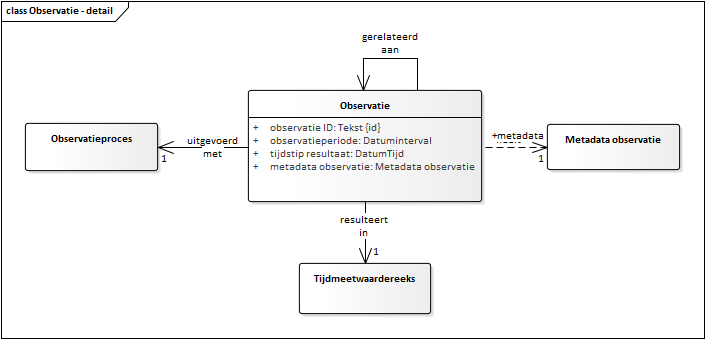
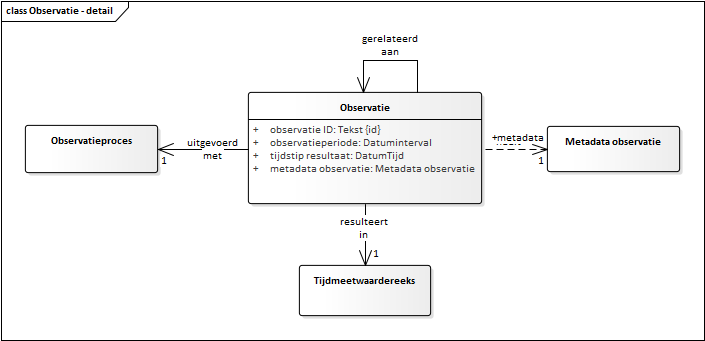
Conceptualmodel-GrondwaterstandonderzoekGLD-0.91-3-20191111-20200218-145818

diff --git a/data/GLD-cat.msword.html b/data/GLD-cat.msword.html
@@ -12,8 +12,8 @@
                 </style></head>
    <body>
       <p>Conceptual model/Grondwaterstandonderzoek (GLD)/20191111</p>
-      <p>Imvertor: 1.59.0</p>
-      <p>Model release: Conceptualmodel-GrondwaterstandonderzoekGLD-0.91-3-20191111-20200212-155821</p>
+      <p>Imvertor: 1.59.1</p>
+      <p>Model release: Conceptualmodel-GrondwaterstandonderzoekGLD-0.91-3-20191111-20200218-145818</p>
       <hr>
       <section>
          <h1>Artikel 1 Definitie van registratieobject, entiteiten en attributen</h1>
@@ -85,7 +85,7 @@
                         <area shape="rect" alt="Observatie" coords="416,208,562,264" href="#graph_EAID_665112EA_A39D_4ff0_BC95_CDDD3C5314EE">
                         <area shape="rect" alt="GMW-monitoringbuis" coords="714,106,860,152" href="#graph_EAID_3337CDCE_0A5D_4aee_AEB0_14AF7652B102">
                         <area shape="rect" alt="Grondwatermonitoringnet" coords="714,35,860,83" href="#graph_EAID_68FD3B87_BA7B_485e_A5DC_4804CB98C818">
-                        <area shape="rect" alt="Grondwaterstandonderzoek" coords="359,35,629,141" href="#graph_EAID_5876720F_795D_40b5_82B8_BC782B71FA3A"></map><p><b>Grondwaterstandonderzoek</b></p>
+                        <area shape="rect" alt="Grondwaterstandonderzoek" coords="359,35,629,141" href="#graph_EAID_5876720F_795D_40b5_82B8_BC782B71FA3A"></map><p><b></b></p>
                   </div>
                   <table style="width: 100%;">
                      <colgroup style="width: 30%;"></colgroup>
@@ -512,7 +512,7 @@
                </section><a class="anchor" id="graph_EAID_0D009A59_1E9A_4fc2_867A_9006A9464AA7"></a><a class="anchor" id="global_class_Model_Registratiegeschiedenis"></a><section id="global_class_Model_Registratiegeschiedenis">
                   <h3>   Registratiegeschiedenis</h3>
                   <div class="imageinfo "><img src="Images/EAID_52221F8C_7EB3_448f_9420_3B6CEB964A75.png" usemap="#imagemap-EAID_52221F8C_7EB3_448f_9420_3B6CEB964A75" alt="Diagram "><map name="imagemap-EAID_52221F8C_7EB3_448f_9420_3B6CEB964A75">
-                        <area shape="rect" alt="Registratiegeschiedenis" coords="25,35,304,234" href="#graph_EAID_0D009A59_1E9A_4fc2_867A_9006A9464AA7"></map><p><b>Registratiegeschiedenis</b></p>
+                        <area shape="rect" alt="Registratiegeschiedenis" coords="25,35,304,234" href="#graph_EAID_0D009A59_1E9A_4fc2_867A_9006A9464AA7"></map><p><b></b></p>
                   </div>
                   <table style="width: 100%;">
                      <colgroup style="width: 30%;"></colgroup>
@@ -1155,7 +1155,7 @@
                </section><a class="anchor" id="graph_EAID_68FD3B87_BA7B_485e_A5DC_4804CB98C818"></a><a class="anchor" id="global_class_Model_Grondwatermonitoringnet"></a><section id="global_class_Model_Grondwatermonitoringnet">
                   <h3>   Grondwatermonitoringnet</h3>
                   <div class="imageinfo "><img src="Images/EAID_C875F96A_7593_4a6a_873E_076B91008FD8.png" usemap="#imagemap-EAID_C875F96A_7593_4a6a_873E_076B91008FD8" alt="Diagram "><map name="imagemap-EAID_C875F96A_7593_4a6a_873E_076B91008FD8">
-                        <area shape="rect" alt="Grondwatermonitoringnet" coords="25,35,203,108" href="#graph_EAID_68FD3B87_BA7B_485e_A5DC_4804CB98C818"></map><p><b>Grondwatermonitoringnet</b></p>
+                        <area shape="rect" alt="Grondwatermonitoringnet" coords="25,35,203,108" href="#graph_EAID_68FD3B87_BA7B_485e_A5DC_4804CB98C818"></map><p><b></b></p>
                   </div>
                   <table style="width: 100%;">
                      <colgroup style="width: 30%;"></colgroup>
@@ -1242,7 +1242,7 @@
                </section><a class="anchor" id="graph_EAID_3337CDCE_0A5D_4aee_AEB0_14AF7652B102"></a><a class="anchor" id="global_class_Model_GMWMonitoringbuis"></a><section id="global_class_Model_GMWMonitoringbuis">
                   <h3>   GMW-monitoringbuis</h3>
                   <div class="imageinfo "><img src="Images/EAID_ADD1D46C_60DB_4f47_81DE_F330147CC549.png" usemap="#imagemap-EAID_ADD1D46C_60DB_4f47_81DE_F330147CC549" alt="Diagram "><map name="imagemap-EAID_ADD1D46C_60DB_4f47_81DE_F330147CC549">
-                        <area shape="rect" alt="GMW-monitoringbuis" coords="25,35,202,118" href="#graph_EAID_3337CDCE_0A5D_4aee_AEB0_14AF7652B102"></map><p><b>GMW-monitoringbuis</b></p>
+                        <area shape="rect" alt="GMW-monitoringbuis" coords="25,35,202,118" href="#graph_EAID_3337CDCE_0A5D_4aee_AEB0_14AF7652B102"></map><p><b></b></p>
                   </div>
                   <table style="width: 100%;">
                      <colgroup style="width: 30%;"></colgroup>
@@ -1370,10 +1370,10 @@
                </section><a class="anchor" id="graph_EAID_665112EA_A39D_4ff0_BC95_CDDD3C5314EE"></a><a class="anchor" id="global_class_Model_Observatie"></a><section id="global_class_Model_Observatie">
                   <h3>   Observatie</h3>
                   <div class="imageinfo "><img src="Images/EAID_FFE0225E_BCD2_4577_80E8_F7BE7B9C534D.png" usemap="#imagemap-EAID_FFE0225E_BCD2_4577_80E8_F7BE7B9C534D" alt="Diagram "><map name="imagemap-EAID_FFE0225E_BCD2_4577_80E8_F7BE7B9C534D">
-                        <area shape="rect" alt="Observatieproces" coords="25,123,158,171" href="#graph_EAID_60FD1126_3C17_4798_955B_1E516F7A0B33">
-                        <area shape="rect" alt="Tijdmeetwaardereeks" coords="299,263,431,314" href="#graph_EAID_590167CC_D7A2_4abb_8672_8592B1DF1842">
-                        <area shape="rect" alt="Metadata observatie" coords="547,124,680,170" href="#graph_EAID_2931B2EB_8861_47e1_B587_ADACE12C97F7">
-                        <area shape="rect" alt="Observatie" coords="248,90,482,202" href="#graph_EAID_665112EA_A39D_4ff0_BC95_CDDD3C5314EE"></map><p><b>Observatie</b></p>
+                        <area shape="rect" alt="Observatieproces" coords="25,125,158,173" href="#graph_EAID_60FD1126_3C17_4798_955B_1E516F7A0B33">
+                        <area shape="rect" alt="Tijdmeetwaardereeks" coords="299,265,431,316" href="#graph_EAID_590167CC_D7A2_4abb_8672_8592B1DF1842">
+                        <area shape="rect" alt="Metadata observatie" coords="547,126,680,172" href="#graph_EAID_2931B2EB_8861_47e1_B587_ADACE12C97F7">
+                        <area shape="rect" alt="Observatie" coords="248,92,482,204" href="#graph_EAID_665112EA_A39D_4ff0_BC95_CDDD3C5314EE"></map><p><b></b></p>
                   </div>
                   <table style="width: 100%;">
                      <colgroup style="width: 30%;"></colgroup>
@@ -1609,7 +1609,7 @@
                   <h3>   Metadata observatie</h3>
                   <div class="imageinfo "><img src="Images/EAID_AABBF7FC_969A_409b_AC51_3C2592E5F205.png" usemap="#imagemap-EAID_AABBF7FC_969A_409b_AC51_3C2592E5F205" alt="Diagram "><map name="imagemap-EAID_AABBF7FC_969A_409b_AC51_3C2592E5F205">
                         <area shape="rect" alt="Organisatiegegevens" coords="366,57,514,129" href="#graph_EAID_806BC67E_5274_4569_8563_F09961E376AE">
-                        <area shape="rect" alt="Metadata observatie" coords="25,35,255,133" href="#graph_EAID_2931B2EB_8861_47e1_B587_ADACE12C97F7"></map><p><b>Metadata observatie</b></p>
+                        <area shape="rect" alt="Metadata observatie" coords="25,35,255,133" href="#graph_EAID_2931B2EB_8861_47e1_B587_ADACE12C97F7"></map><p><b></b></p>
                   </div>
                   <table style="width: 100%;">
                      <colgroup style="width: 30%;"></colgroup>
@@ -1796,7 +1796,7 @@
                </section><a class="anchor" id="graph_EAID_806BC67E_5274_4569_8563_F09961E376AE"></a><a class="anchor" id="global_class_Model_Organisatiegegevens"></a><section id="global_class_Model_Organisatiegegevens">
                   <h3>   Organisatiegegevens</h3>
                   <div class="imageinfo "><img src="Images/EAID_66CC5352_4BE4_425e_BA0B_5B77BDE58788.png" usemap="#imagemap-EAID_66CC5352_4BE4_425e_BA0B_5B77BDE58788" alt="Diagram "><map name="imagemap-EAID_66CC5352_4BE4_425e_BA0B_5B77BDE58788">
-                        <area shape="rect" alt="Organisatiegegevens" coords="25,35,178,104" href="#graph_EAID_806BC67E_5274_4569_8563_F09961E376AE"></map><p><b>Organisatiegegevens</b></p>
+                        <area shape="rect" alt="Organisatiegegevens" coords="25,35,178,104" href="#graph_EAID_806BC67E_5274_4569_8563_F09961E376AE"></map><p><b></b></p>
                   </div>
                   <table style="width: 100%;">
                      <colgroup style="width: 30%;"></colgroup>
@@ -1954,7 +1954,7 @@
                </section><a class="anchor" id="graph_EAID_60FD1126_3C17_4798_955B_1E516F7A0B33"></a><a class="anchor" id="global_class_Model_Observatieproces"></a><section id="global_class_Model_Observatieproces">
                   <h3>   Observatieproces</h3>
                   <div class="imageinfo "><img src="Images/EAID_BAD34A77_EDEF_4343_933E_1F8FA3DE5E0A.png" usemap="#imagemap-EAID_BAD34A77_EDEF_4343_933E_1F8FA3DE5E0A" alt="Diagram "><map name="imagemap-EAID_BAD34A77_EDEF_4343_933E_1F8FA3DE5E0A">
-                        <area shape="rect" alt="Observatieproces" coords="25,35,352,159" href="#graph_EAID_60FD1126_3C17_4798_955B_1E516F7A0B33"></map><p><b>Observatieproces</b></p>
+                        <area shape="rect" alt="Observatieproces" coords="25,35,352,159" href="#graph_EAID_60FD1126_3C17_4798_955B_1E516F7A0B33"></map><p><b></b></p>
                   </div>
                   <table style="width: 100%;">
                      <colgroup style="width: 30%;"></colgroup>
@@ -2273,6 +2273,19 @@
                               <th>&nbsp;&nbsp;Type</th>
                               <td>Waardelijst uitbreidbaar</td>
                            </tr>
+                           <tr>
+                              <th>Regels IMBRO/A</th>
+                              <td>
+                                 
+                                 <p>De waarde van het attribuut moet gelijk zijn aan onbekend wanneer de waarde van het
+                                    attribuut <em>mate beoordeling</em> van de entiteit <em>Metadata observatie</em> gelijk is aan onbekend.<br clear="none">
+                                    De waarde van het attribuut mag niet gelijk zijn aan onbekend wanneer de waarde van
+                                    het attribuut <em>mate beoordeling</em> van de entiteit <em>Metadata observatie</em> gelijk is aan voorlopig of gelijk is aan volledigBeoordeeld.<br clear="none">
+                                    
+                                 </p>
+                                 
+                              </td>
+                           </tr>
                         </tbody>
                      </table>
                      
@@ -2281,7 +2294,7 @@
                   <h3>   Tijdmeetwaardereeks</h3>
                   <div class="imageinfo "><img src="Images/EAID_7BBC6F4A_9E99_4559_998B_307FADCFC4E5.png" usemap="#imagemap-EAID_7BBC6F4A_9E99_4559_998B_307FADCFC4E5" alt="Diagram "><map name="imagemap-EAID_7BBC6F4A_9E99_4559_998B_307FADCFC4E5">
                         <area shape="rect" alt="Tijdmeetwaardepaar" coords="364,57,510,102" href="#graph_EAID_5FC959F0_5ED2_47e7_8C6C_68C408128425">
-                        <area shape="rect" alt="Tijdmeetwaardereeks" coords="25,35,293,120" href="#graph_EAID_590167CC_D7A2_4abb_8672_8592B1DF1842"></map><p><b>Tijdmeetwaardereeks</b></p>
+                        <area shape="rect" alt="Tijdmeetwaardereeks" coords="25,35,293,120" href="#graph_EAID_590167CC_D7A2_4abb_8672_8592B1DF1842"></map><p><b></b></p>
                   </div>
                   <table style="width: 100%;">
                      <colgroup style="width: 30%;"></colgroup>
@@ -2373,7 +2386,7 @@
                   <h3>   Tijdmeetwaardepaar</h3>
                   <div class="imageinfo "><img src="Images/EAID_DF204560_A53B_41de_9E25_4B2A3F3BE7F0.png" usemap="#imagemap-EAID_DF204560_A53B_41de_9E25_4B2A3F3BE7F0" alt="Diagram "><map name="imagemap-EAID_DF204560_A53B_41de_9E25_4B2A3F3BE7F0">
                         <area shape="rect" alt="Metadata tijdmeetwaardepaar" coords="436,46,711,144" href="#graph_EAID_734CD3EC_5E0A_4b12_89F5_AF8104ECF41F">
-                        <area shape="rect" alt="Tijdmeetwaardepaar" coords="25,35,358,125" href="#graph_EAID_5FC959F0_5ED2_47e7_8C6C_68C408128425"></map><p><b>Tijdmeetwaardepaar</b></p>
+                        <area shape="rect" alt="Tijdmeetwaardepaar" coords="25,35,358,125" href="#graph_EAID_5FC959F0_5ED2_47e7_8C6C_68C408128425"></map><p><b></b></p>
                   </div>
                   <table style="width: 100%;">
                      <colgroup style="width: 30%;"></colgroup>
@@ -2494,6 +2507,19 @@
                               <td>m (meter)</td>
                            </tr>
                            <tr>
+                              <th>Mogelijk geen waarde</th>
+                              <td>Ja</td>
+                           </tr>
+                           <tr>
+                              <th>Reden geen waarde</th>
+                              <td>
+                                 
+                                 <p>De waarde mag ontbreken wanneer het attribuut <em>censuurreden</em> van de entiteit <em>Metadata tijdmeetwaardepaar</em> aanwezig is.
+                                 </p>
+                                 
+                              </td>
+                           </tr>
+                           <tr>
                               <th>Toelichting</th>
                               <td>
                                  
@@ -2508,19 +2534,6 @@
                                  
                               </td>
                            </tr>
-                           <tr>
-                              <th>Mogelijk geen waarde</th>
-                              <td>Ja</td>
-                           </tr>
-                           <tr>
-                              <th>Reden geen waarde</th>
-                              <td>
-                                 
-                                 <p>De waarde mag ontbreken wanneer het attribuut <em>censuurreden</em> van de entiteit <em>Metadata tijdmeetwaardepaar</em> aanwezig is.
-                                 </p>
-                                 
-                              </td>
-                           </tr>
                         </tbody>
                      </table>
                      
@@ -2528,7 +2541,7 @@
                </section><a class="anchor" id="graph_EAID_734CD3EC_5E0A_4b12_89F5_AF8104ECF41F"></a><a class="anchor" id="global_class_Model_MetadataTijdmeetwaardepaar"></a><section id="global_class_Model_MetadataTijdmeetwaardepaar">
                   <h3>   Metadata tijdmeetwaardepaar</h3>
                   <div class="imageinfo "><img src="Images/EAID_BE4A541D_EE25_4bf8_B5D2_B8F17B80EF8B.png" usemap="#imagemap-EAID_BE4A541D_EE25_4bf8_B5D2_B8F17B80EF8B" alt="Diagram "><map name="imagemap-EAID_BE4A541D_EE25_4bf8_B5D2_B8F17B80EF8B">
-                        <area shape="rect" alt="Metadata tijdmeetwaardepaar" coords="25,35,295,131" href="#graph_EAID_734CD3EC_5E0A_4b12_89F5_AF8104ECF41F"></map><p><b>Metadata tijdmeetwaardepaar</b></p>
+                        <area shape="rect" alt="Metadata tijdmeetwaardepaar" coords="25,35,295,131" href="#graph_EAID_734CD3EC_5E0A_4b12_89F5_AF8104ECF41F"></map><p><b></b></p>
                   </div>
                   <table style="width: 100%;">
                      <colgroup style="width: 30%;"></colgroup>
@@ -2602,6 +2615,23 @@
                                  
                                  <p>De waarde van het attribuut mag niet gelijk zijn aan <em>nogNietBeoordeeld</em> wanneer de waarde van het attribuut <em>mate beoordeling</em> van de entiteit <em>Metadata observatie</em> gelijk is aan <em>volledig beoordeeld.</em> 
                                     
+                                 </p>
+                                 
+                              </td>
+                           </tr>
+                           <tr>
+                              <th>Regels IMBRO/A</th>
+                              <td>
+                                 
+                                 <p>De waarde van het attribuut moet gelijk zijn aan onbekend wanneer de waarde van het
+                                    attribuut <em>mate beoordeling</em> van de entiteit <em>Metadata observatie</em> gelijk is aan onbekend.<br clear="none">
+                                    De waarde van het attribuut mag niet gelijk zijn aan onbekend wanneer de waarde van
+                                    het attribuut <em>mate beoordeling</em> van de entiteit <em>Metadata observatie</em> gelijk is aan voorlopig of gelijk is aan volledigBeoordeeld. 
+                                 </p>
+                                 
+                                 <p>De waarde van het attribuut moet gelijk zijn aan onbekend wanneer de waarde van het
+                                    attribuut <em>beoordelingsprocedure</em> van de entiteit <em>Observatieproces</em> gelijk is aan onbekend.<br clear="none">
+                                    In alle andere gevallen mag de waarde van het attribuut niet gelijk zijn aan onbekend.
                                  </p>
                                  
                               </td>
@@ -2730,17 +2760,6 @@
                               </td>
                            </tr>
                            <tr>
-                              <th>Toelichting</th>
-                              <td>
-                                 
-                                 <p>Wanneer de waterstand bijvoorbeeld lager is dan de inhangdiepte van de sensor (drooggevallen
-                                    sensor), wordt hier de inhangdiepte van de sensor in meter ten opzichte van NAP geregistreerd.
-                                    Het gegeven <em>censuurreden</em> heeft in dit geval de waarde <em>kleinerDanLimietwaarde</em> en het gegeven <em>waterstand</em> van de entiteit <em>Tijdmeetwaardepaar</em> heeft geen waarde.
-                                 </p>
-                                 
-                              </td>
-                           </tr>
-                           <tr>
                               <th>Mogelijk geen waarde</th>
                               <td>Ja</td>
                            </tr>
@@ -2750,6 +2769,17 @@
                                  
                                  <p>Voor IMBRO/A gegevens ontbreekt de waarde wanneer het attribuut <em>censuurreden</em> de waarde <em>onbekend</em> heeft.
                                     Voor IMBRO/A-gegevens mag de waarde ontbreken wanneer het attribuut <em>censuurreden</em> de waarde <em>groterDanLimietwaarde</em> of <em>kleinerDanLimietwaarde</em> heeft.
+                                 </p>
+                                 
+                              </td>
+                           </tr>
+                           <tr>
+                              <th>Toelichting</th>
+                              <td>
+                                 
+                                 <p>Wanneer de waterstand bijvoorbeeld lager is dan de inhangdiepte van de sensor (drooggevallen
+                                    sensor), wordt hier de inhangdiepte van de sensor in meter ten opzichte van NAP geregistreerd.
+                                    Het gegeven <em>censuurreden</em> heeft in dit geval de waarde <em>kleinerDanLimietwaarde</em> en het gegeven <em>waterstand</em> van de entiteit <em>Tijdmeetwaardepaar</em> heeft geen waarde.
                                  </p>
                                  
                               </td>
